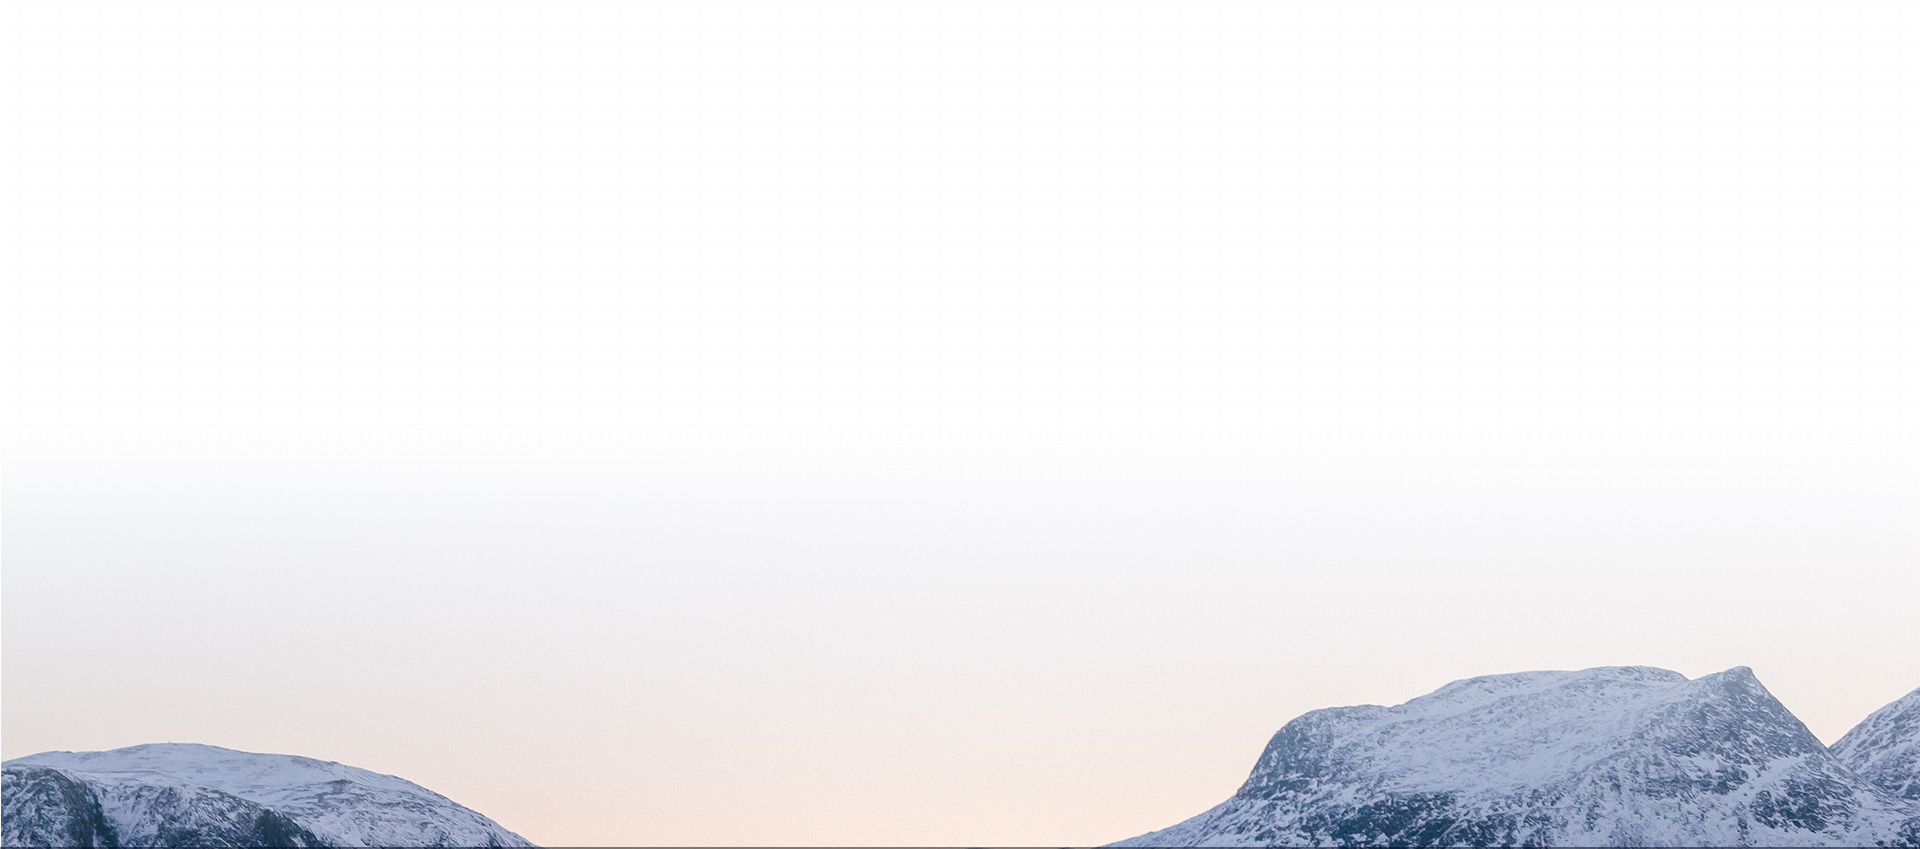
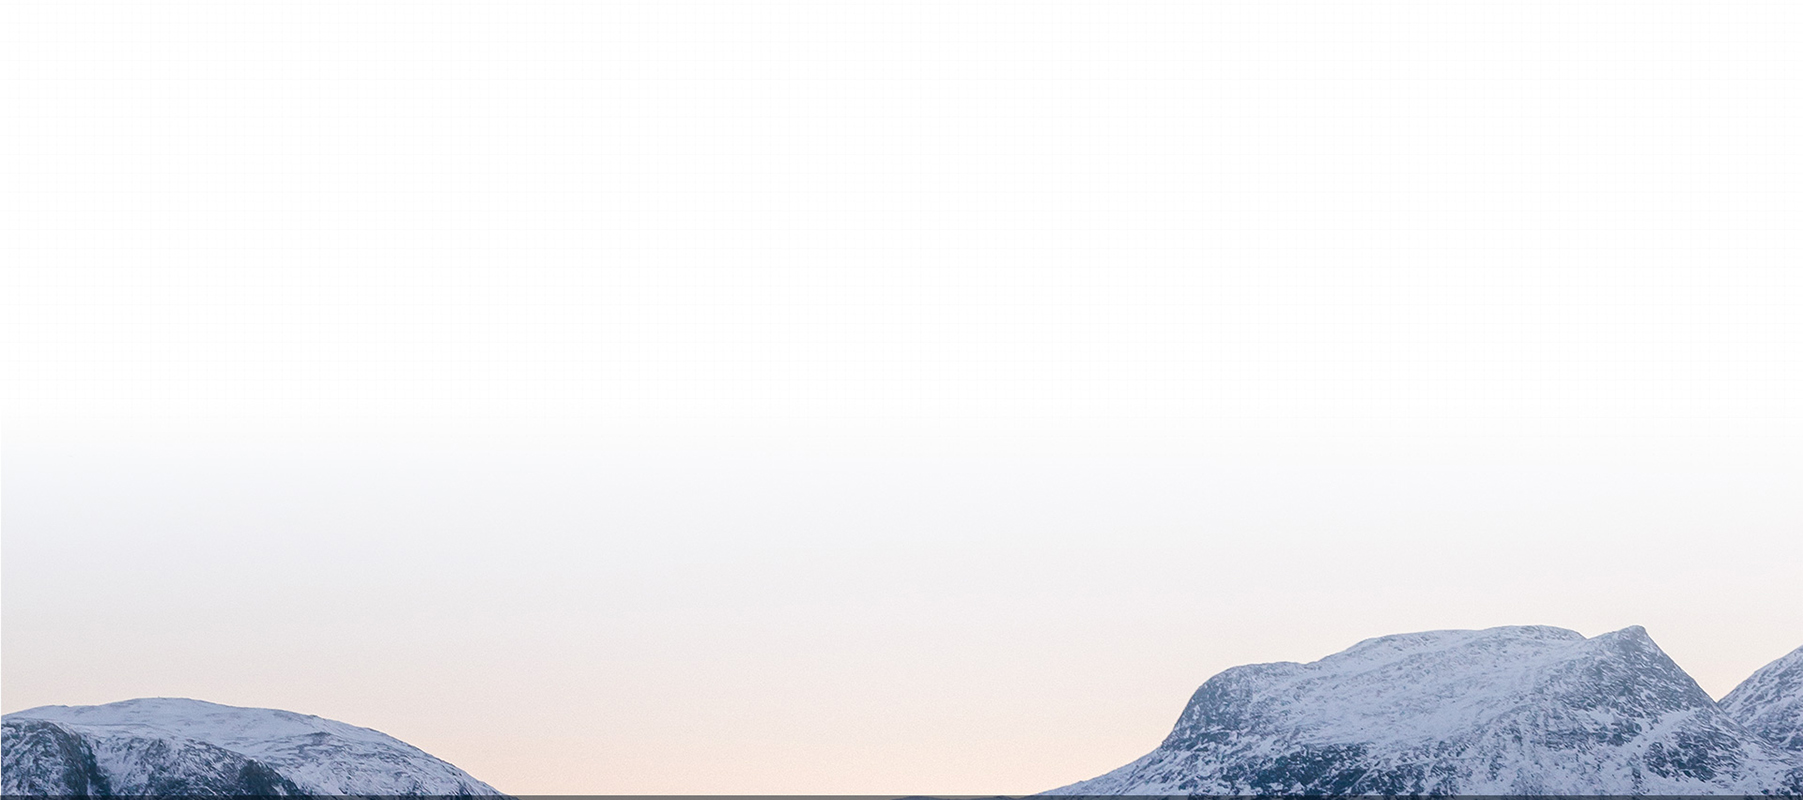
guanwang

Changed region(s): [[0.0, 0.7812, 1.0, 1.0]]

diff --git a/海斯官网/官网/css/index.css b/海斯官网/官网/css/index.css
@@ -17,6 +17,7 @@ body{
     font-weight: bold;
     /*border: 1px solid black;*/
     background-color: #ffffff;
+    /*color: black;*/
 
 }
 .header .header-content{
@@ -49,6 +50,7 @@ body{
     letter-spacing: 2px;
     cursor: pointer;
     text-decoration: none;
+    color: black;
 }
 .header .header-content .buttons{
     position: absolute;
@@ -56,20 +58,27 @@ body{
     /*top: 15px;*/
     top: 20px;
 }
-.header .header-content .buttons input{
+.header .header-content .buttons a{
+    font-size: 14px;
+    letter-spacing: 2px;
+    /*line-height: 20px;*/
+    font-family: 微软雅黑;
+    font-weight: normal;
+
+    background-color:#ffffff;
+	color:#0ea7ff;
+
+    border: 1px solid #0ea7ff;
+
     width: 70px;
     height: 30px;
-    font-size: 14px;
-	background-color:#ffffff;
-	color:#0ea7ff;
-	border: 1px solid #0ea7ff;
-	padding: 5px 12px;
-	line-height: 20px;
+    padding: 5px 12px 5px 16px;
+
 	border-radius: 4px;
 	cursor: pointer;
-    font-family: 微软雅黑;
+    text-decoration: none;
 }
-.header .header-content .buttons input:hover{
+.header .header-content .buttons a:hover{
     color: #ffffff;
     background-color: #0ea7ff;
 }
@@ -77,14 +86,13 @@ body{
 
 .content .banner{
     width: 100%;
-    /*height: 700px;*/
     position: relative;
     overflow: hidden;
+    /*border: 1px solid black;*/
 }
 .content .banner .banner-list{
     position: absolute;
     width: 100%;
-    /*height: 100%;*/
     /*top: 0;*/
     /*left: 0;*/
 }
@@ -122,11 +130,10 @@ body{
     /*height: 700px;*/
     /*border: 1px solid black;*/
 }
-.content #functionContent{
+/*.content #functionContent{
     background:url('../image/background3.jpg');
     width: 100%;
-    /*border: 1px solid black;*/
-}
+}*/
 .content .product-features .product-features-header,
 .content .standard-function .standard-function-header,
 .content .service-content .service-content-header {
@@ -244,12 +251,6 @@ body{
     box-shadow: 0 10px 10px 0 rgba(72, 86, 127, 0.2);
 }
 
-.content .service-content{
-    /*margin-top: 325px;*/
-    overflow:hidden;
-    background:url('../image/background5.jpg');
-    /*border: 1px solid black;*/
-}
 .content .service-content .service-content-content{
     margin: 50px auto auto auto;
     padding-left: 290px;

diff --git a/海斯官网/官网/index.html b/海斯官网/官网/index.html
@@ -30,8 +30,10 @@
                 </ul>
 
                 <div class="buttons">
-                    <input type="button" value="登录"></input>
-                    <input type="button" value="注册"></input>
+                    <!-- <input type="button" value="登录" href=""></input> -->
+                    <a href="/HiServiceCRM">登录</a>
+                    <a href="/HiServiceCRM/register.jsp">注册</a>
+                    <!-- <input type="button" value="注册"></input> -->
                 </div>
 
             </div>
@@ -39,10 +41,10 @@
 
         <div class="content" id="fullpage">
             <div class="banner section active">
-                <div class="banner-list" style="background:url('image/background1.jpg'); width:100%;height:700px"></div>
-                <div class="banner-list" style="background:url('image/background1.jpg'); width:100%;height:700px"></div>
-                <div class="banner-list" style="background:url('image/background1.jpg'); width:100%;height:700px"></div>
-                <div class="banner-list" style="background:url('image/background1.jpg'); width:100%;height:700px"></div>
+                <div class="banner-list" style="background:url('image/background1.jpg'); width:100%;height:800px"></div>
+                <div class="banner-list" style="background:url('image/background1.jpg'); width:100%;height:800px"></div>
+                <div class="banner-list" style="background:url('image/background1.jpg'); width:100%;height:800px"></div>
+                <div class="banner-list" style="background:url('image/background1.jpg'); width:100%;height:800px"></div>
 
                 <ul class="banner-btns">
                     <li class="banner-polygon" style="background:url('image/banner/polygon-left.png');margin-right:12px"></li>
@@ -126,7 +128,7 @@
 
             </div>
 
-            <div class="service-content  section">
+            <div class="service-content  section" style="background:url('image/background5.jpg'); width:100%;height:800px">
                 <div class="service-content-header">
                     <img src="image/service-content/service-content.png">
                 </div>

diff --git a/海斯官网/官网/parkManagement.html b/海斯官网/官网/parkManagement.html
@@ -9,16 +9,14 @@
 
         <link rel="stylesheet" type="text/css" href="css/index.css" />
         <link rel="stylesheet" type="text/css" href="css/parkManagement.css" />
-        <link rel="stylesheet" type="text/css" href="css/jquery.fullPage.css" />
+        <!-- <link rel="stylesheet" type="text/css" href="css/jquery.fullPage.css" /> -->
 
         <!-- <script src="http://code.jquery.com/jquery-latest.js" type="text/javascript"></script> -->
         <script src="js/jquery.min.js" type="text/javascript"></script>
-        <script src="js/jquery.fullPage.js" type="text/javascript"></script>
-        <!-- <script src="js/index.js"></script> -->
     </head>
 
     <body>
-    
+
         <header class="header">
             <div class="header-content">
                 <img  id="logo" src="image/logo.png"/>
@@ -32,8 +30,10 @@
                 </ul>
 
                 <div class="buttons">
-                    <input type="button" value="登录"></input>
-                    <input type="button" value="注册"></input>
+                    <!-- <input type="button" value="登录" href=""></input> -->
+                    <a href="/HiServiceCRM">登录</a>
+                    <a href="/HiServiceCRM/register.jsp">注册</a>
+                    <!-- <input type="button" value="注册"></input> -->
                 </div>
 
 

diff --git a/海斯官网/官网/enterpriseSocial.html b/海斯官网/官网/enterpriseSocial.html
@@ -8,11 +8,11 @@
 
         <link rel="stylesheet" type="text/css" href="css/index.css" />
         <link rel="stylesheet" type="text/css" href="css/enterpriseSocial.css" />
-        <link rel="stylesheet" type="text/css" href="css/jquery.fullPage.css" />
+        <!-- <link rel="stylesheet" type="text/css" href="css/jquery.fullPage.css" /> -->
 
         <!-- <script src="http://code.jquery.com/jquery-latest.js" type="text/javascript"></script> -->
         <script src="js/jquery.min.js" type="text/javascript"></script>
-        <script src="js/jquery.fullPage.js" type="text/javascript"></script>
+        <!-- <script src="js/jquery.fullPage.js" type="text/javascript"></script> -->
         <script src="js/enterpriseSocial.js" type="text/javascript"></script>
     </head>
 
@@ -30,8 +30,10 @@
                 </ul>
 
                 <div class="buttons">
-                    <input type="button" value="登录"></input>
-                    <input type="button" value="注册"></input>
+                    <!-- <input type="button" value="登录" href=""></input> -->
+                    <a href="/HiServiceCRM">登录</a>
+                    <a href="/HiServiceCRM/register.jsp">注册</a>
+                    <!-- <input type="button" value="注册"></input> -->
                 </div>
 
             </div>

diff --git a/海斯官网/官网/js/index.js b/海斯官网/官网/js/index.js
@@ -82,10 +82,10 @@ $(document).ready(function() {
         'loopBottom':true,
         'menu':'myMenu',
         // 'autoscrolling':false,
-        anchors: ['firstPage', 'secondPage', 'thirdPage', 'fourthPage','fifthPage'],
+        'anchors': ['firstPage', 'secondPage', 'thirdPage', 'fourthPage','fifthPage'],
         'navigation': true,
         'navigationPosition': 'right',
-        'navigationTooltips': ['focus and speciality', 'Product features', 'Standard features', 'service content','contact us']
+        'navigationTooltips': ['Focus and speciality', 'Product features', 'Standard features', 'Service content','Contact us']
     });
 
 

diff --git a/海斯官网/官网/css/jquery.fullPage.css b/海斯官网/官网/css/jquery.fullPage.css
@@ -227,7 +227,8 @@ html.fp-enabled,
 .fp-responsive .fp-auto-height-responsive .fp-tableCell {
     height: auto !important;
 }
-#section-footer #footer-text
+#section-footer,
+#footer-text
 {
     height: 300px;/*设置尾屏高度*/
 }

diff --git a/面试题/js/js面试题和知识点.md b/面试题/js/js面试题和知识点.md
@@ -276,6 +276,48 @@ alert(res); //false
 
 ```
 
+**String的一些操作方法**
+
+**字符方法**
+
+charAt()字符,charCodeAt()字符编码,或者stringValue[]
+
+**字符串操作方法**
+
+concat(),slice(),substring(),substr()都不修改字符串本身的值
+
+slice(),substring(),substr()三者区别：
+
+slice():
+
+参数：接收一个或者两个参数，第一个参数指定字符串的开始位置；第二个参数表示子字符串到最后一个字符后面的位置
+
+```
+var stringValue = "hello world";
+stringValue.slice(3);//"lo world"
+stringValue.slice(3,7);//"lo w"
+```
+
+substring():
+
+参数：和slice()相同
+
+substr():
+
+参数：接收一个或者两个参数，第一个参数指定字符串的开始位置；第二个参数表示返回子字符串的长度
+
+**字符串位置方法**
+
+indexOf(),lastIndexOf()
+
+**trim()**
+
+创建一个字符串副本，删除前缀和后缀所有空格
+
+**字符串大小写转换方法**
+
+**字符串的模式匹配方法**
+
 ##### 7.js数组合并的方法？
 
 http://blog.csdn.net/github_34514750/article/details/51320982
